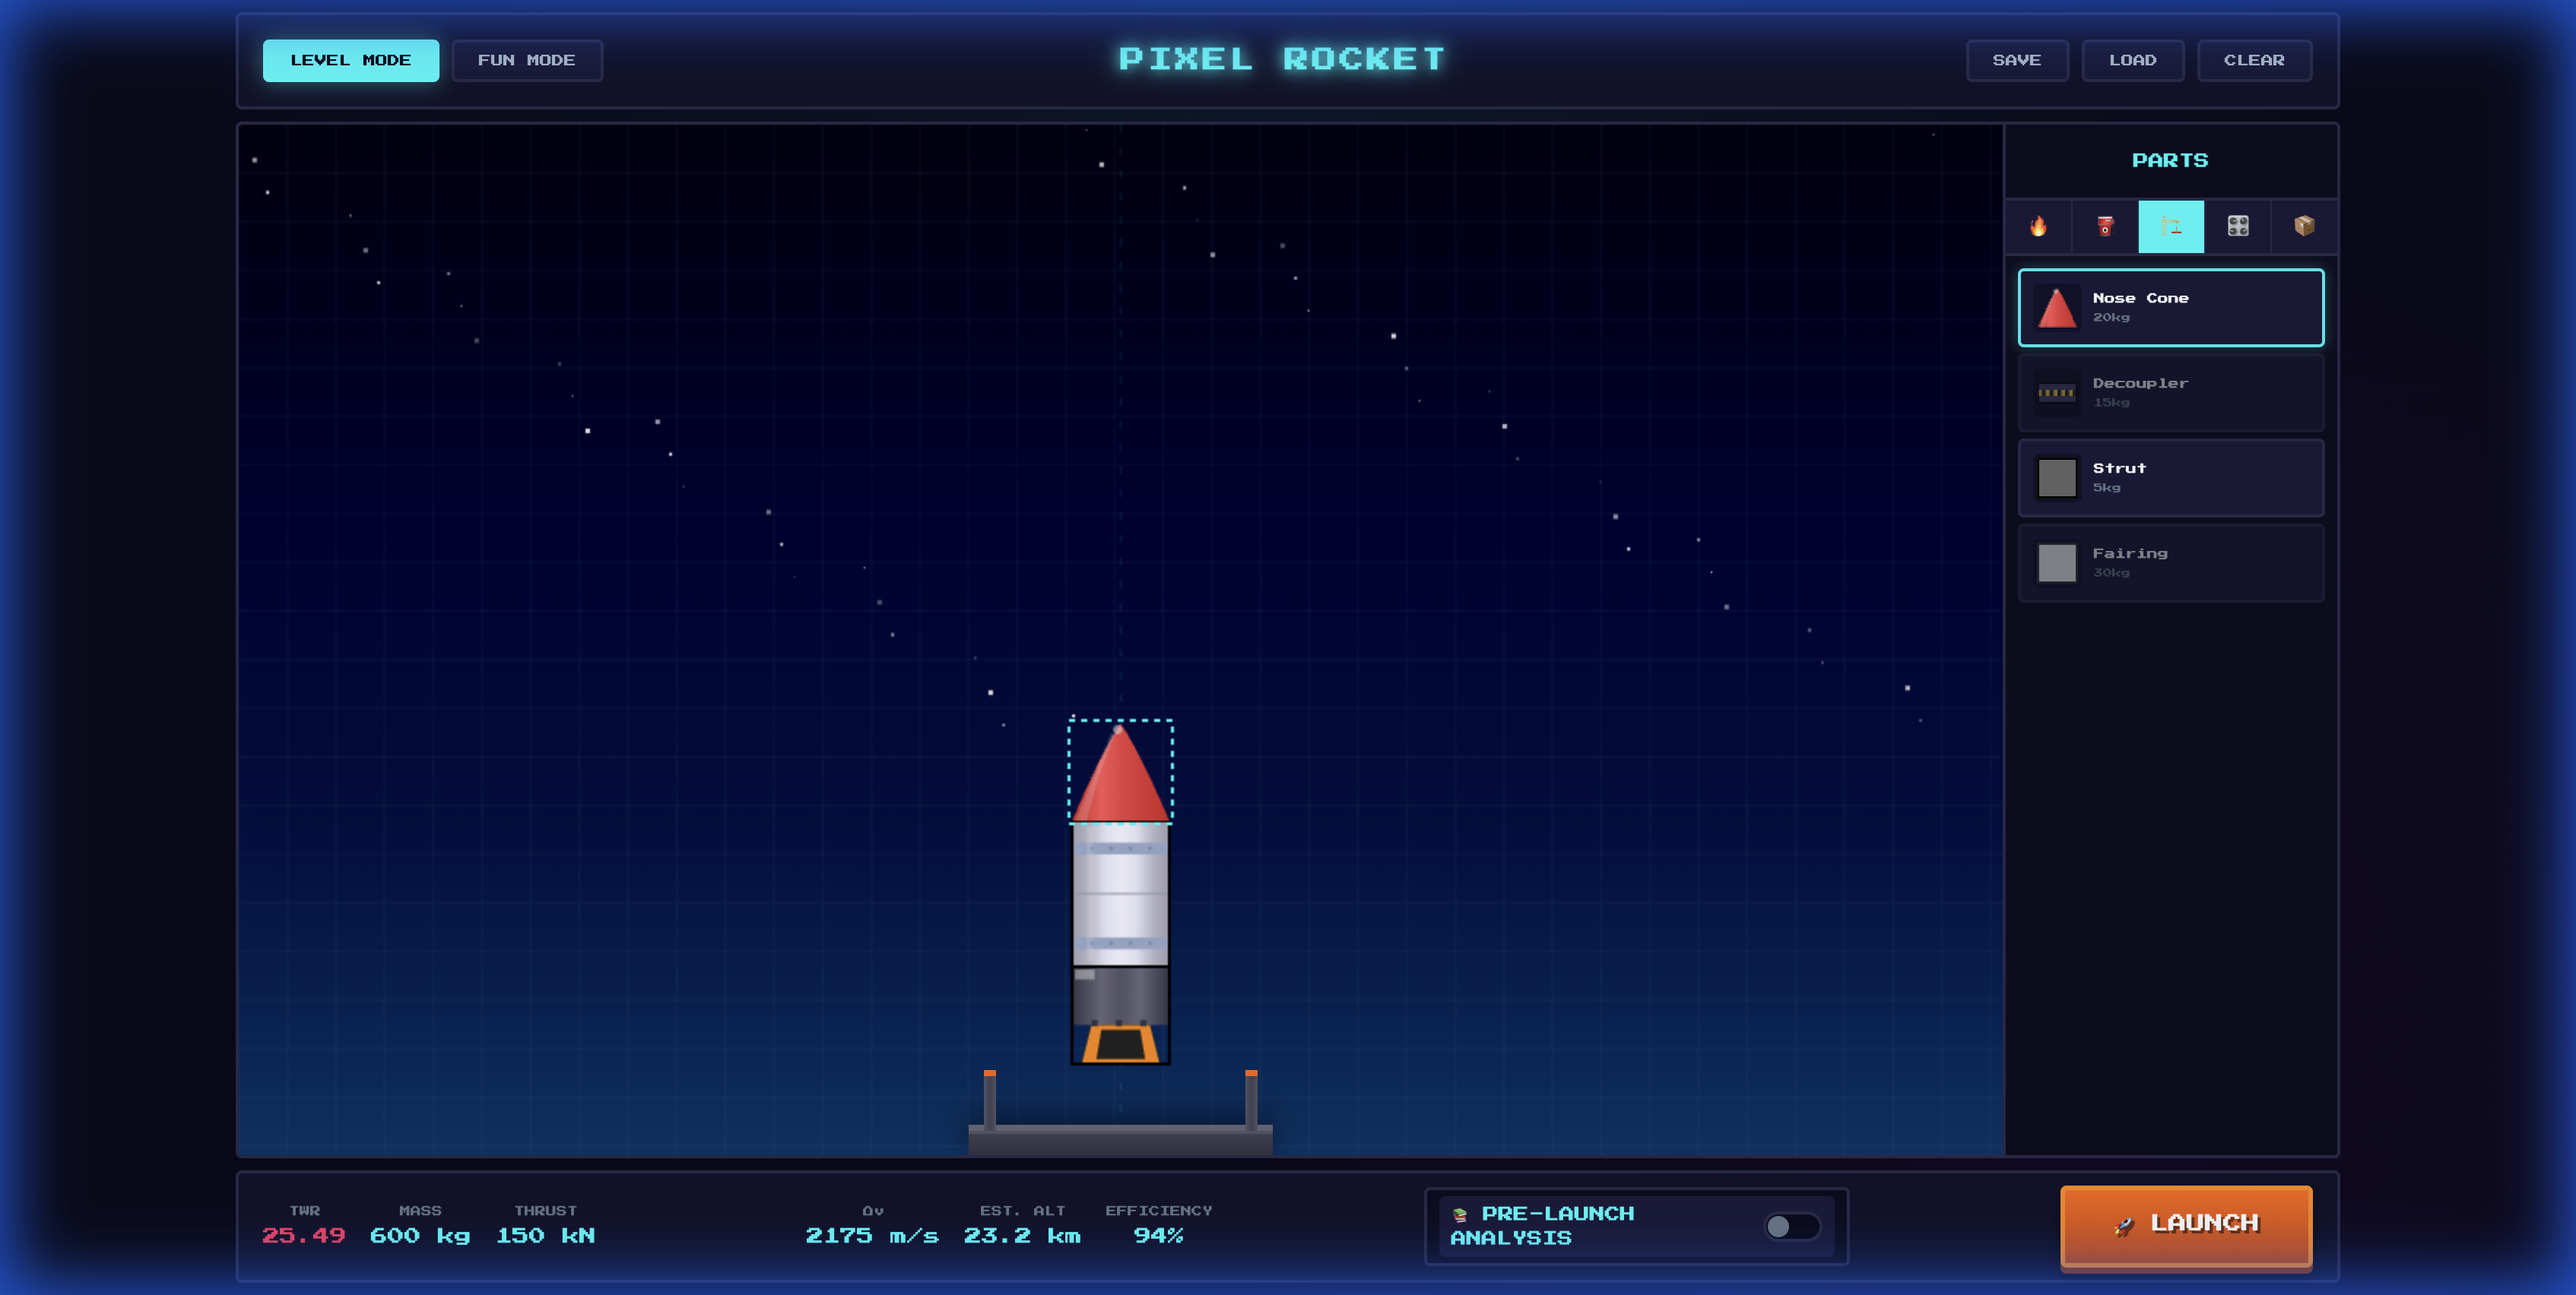
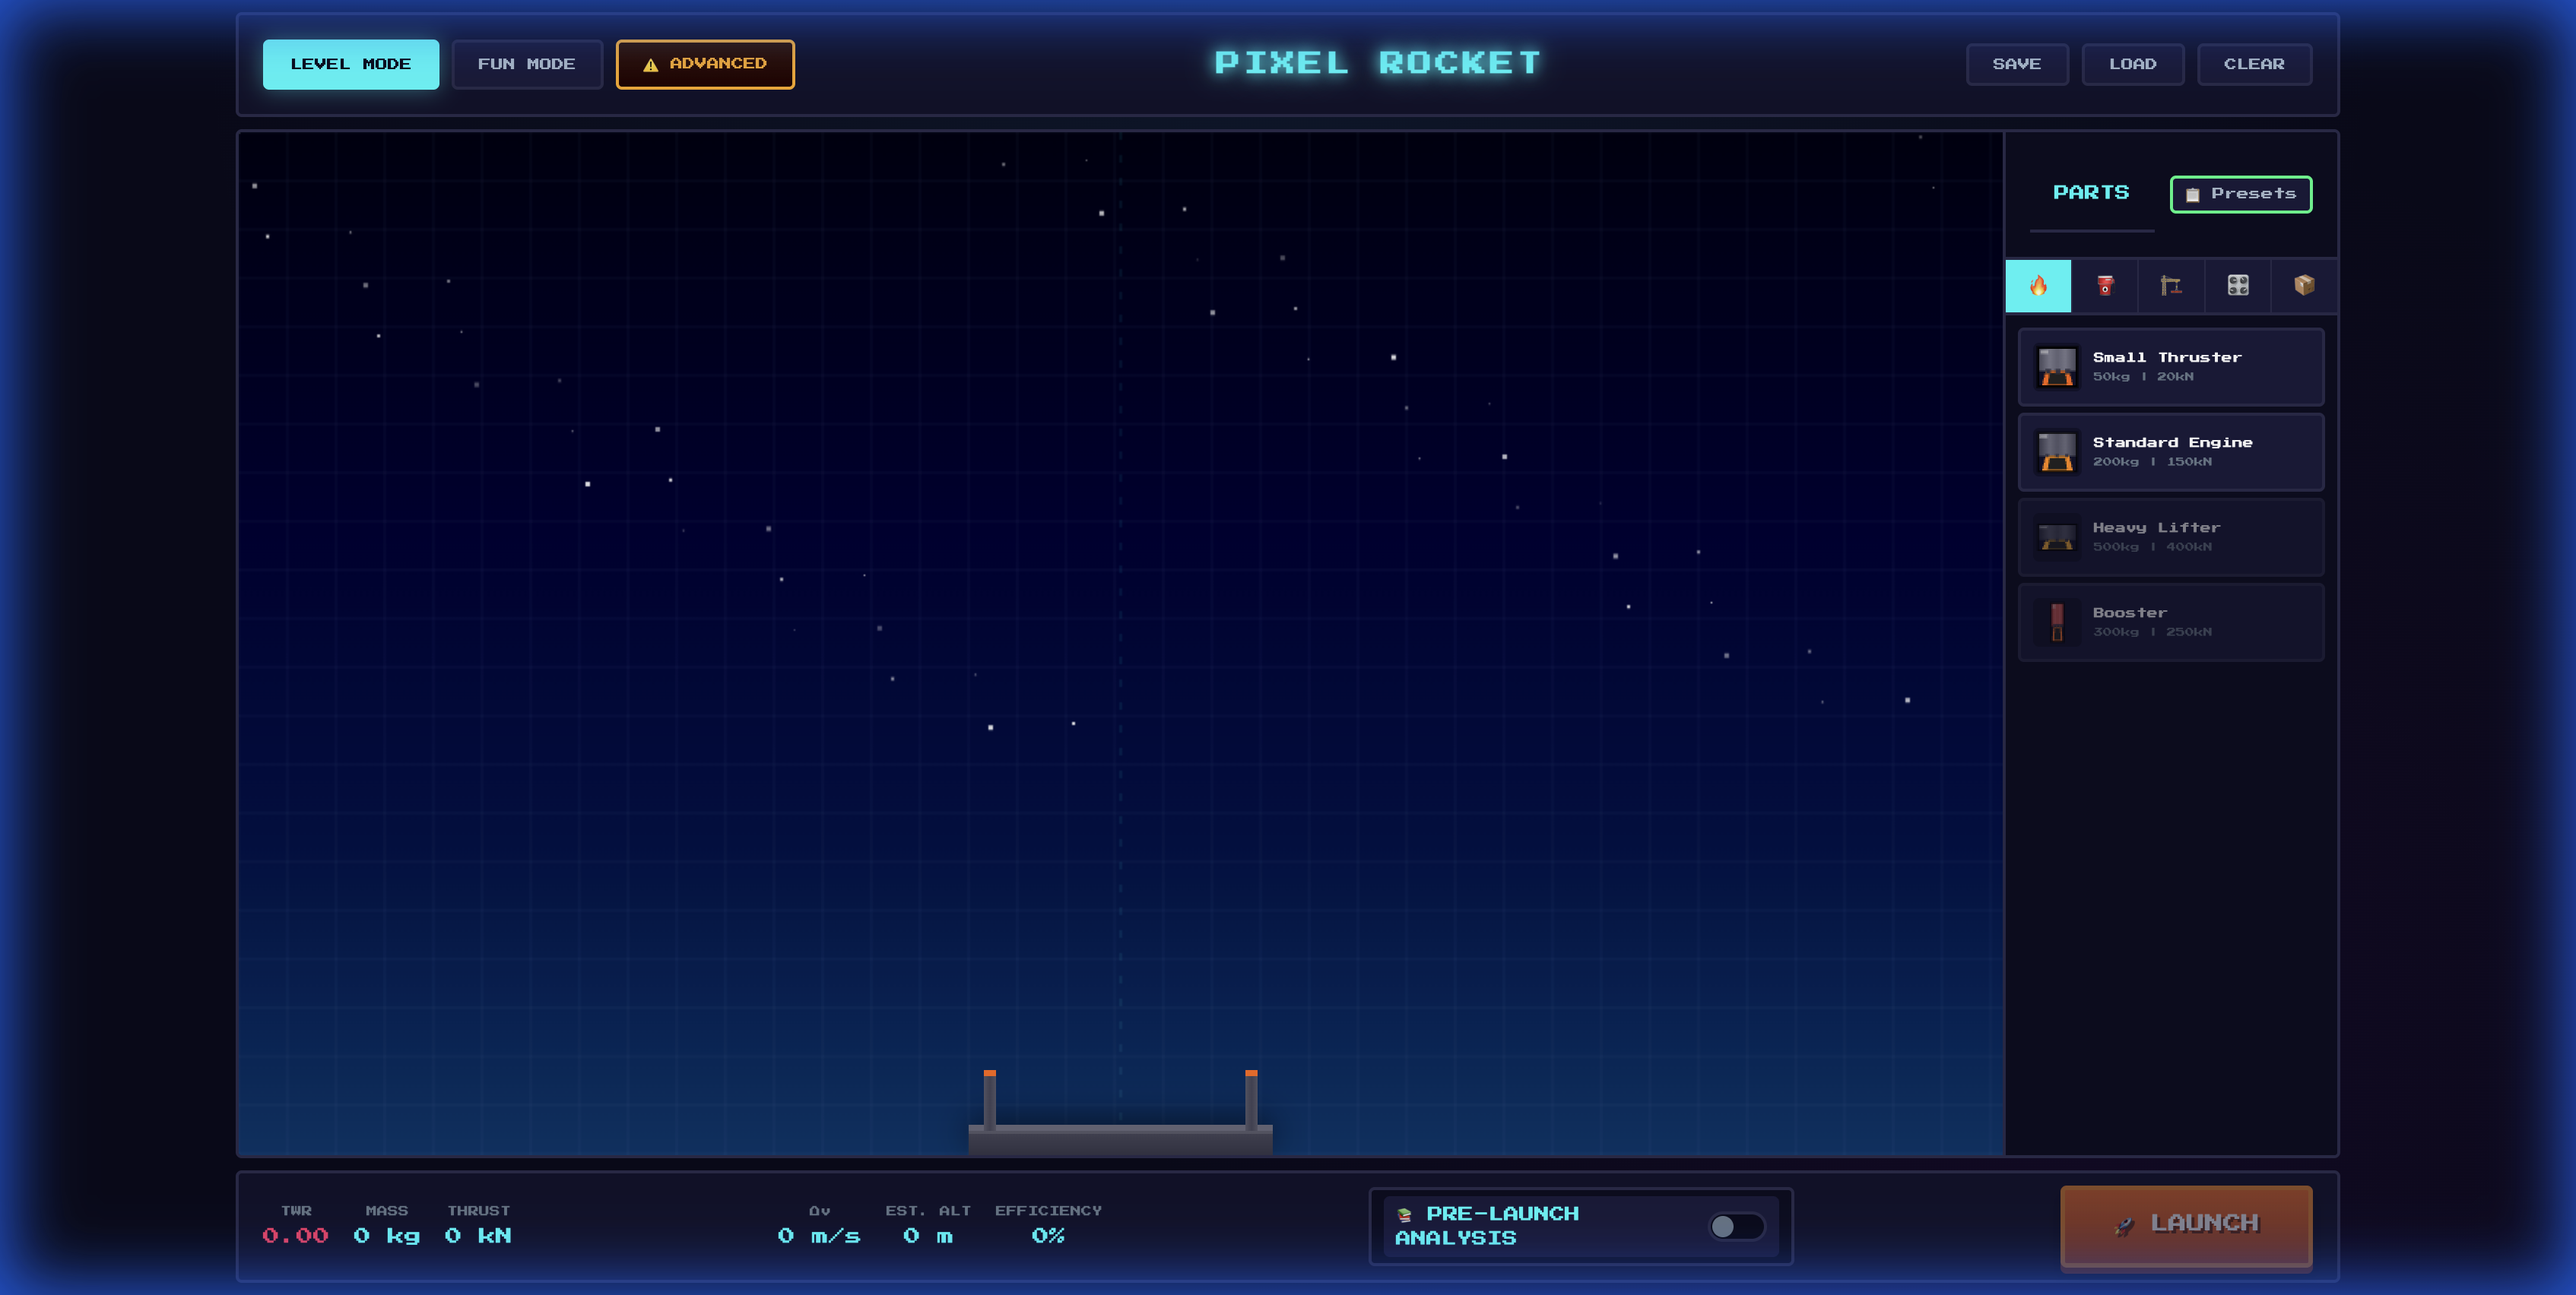
updated README

diff --git a/js/physics.js b/js/physics.js
@@ -526,9 +526,163 @@ function calculateEfficiency(parts) {
 /**
  * Detect stages based on decoupler placement
  */
+/**
+ * Detect stages based on decoupler placement (Bottom-Up)
+ * Analyzes connectivity graph to determine what drops when decouplers fire.
+ */
 function detectStages(parts) {
-    // Simple: treat all as one stage for now
-    return [parts];
+    if (!parts || parts.length === 0) return [];
+
+    // 1. Identify Root Part (Capsule or Probe)
+    // The part that controls the rocket and never drops (unless it crashes)
+    const rootPart = findRootPart(parts);
+    if (!rootPart) return [parts]; // Fallback if no root
+
+    // 2. Identify and Group Decouplers
+    const decouplers = parts.filter(p => {
+        const def = getPartById(p.partId);
+        return def && def.isDecoupler;
+    });
+
+    if (decouplers.length === 0) {
+        return [parts]; // Single stage
+    }
+
+    // Group decouplers by Y level (tolerance 5px) to fire together
+    const groups = {};
+    decouplers.forEach(d => {
+        // Round Y to nearest 10px to group
+        const yLevel = Math.round(d.y / 10) * 10;
+        if (!groups[yLevel]) groups[yLevel] = [];
+        groups[yLevel].push(d);
+    });
+
+    // Sort groups descending (Higher Y = Lower on screen = Bottom of rocket)
+    // We stage from bottom to top.
+    const sortedLevels = Object.keys(groups).sort((a, b) => parseFloat(b) - parseFloat(a));
+
+    const stages = [];
+
+    // 3. Simulate Staging Sequence
+    // Start with all parts currently attached
+    let currentParts = [...parts];
+
+    // Stage 0: The full rocket (Launch Configuration)
+    stages.push(currentParts);
+
+    // Apply each decoupler group
+    sortedLevels.forEach(level => {
+        const groupDecouplers = groups[level];
+        const groupIds = new Set(groupDecouplers.map(d => d.id));
+
+        // "Fire" these decouplers: They break connections but exist in the previous stage.
+        // In the NEXT stage, they (and anything below them) are gone.
+        // We simulate this by checking connectivity from ROOT, treating fired decouplers as "gaps".
+
+        // Note: The decouplers themselves are usually attached to the upper stage, 
+        // so they might stay or go depending on how they are attached. 
+        // In this simple model, we assume the decoupler stays with the *lower* stage (drops away)
+        // OR stays with upper. 
+        // Standard KSP/Sim: Decoupler stays on the part it was placed ON? 
+        // Let's assume decouplers are "separators" and we exclude them from the traversal 
+        // effectively breaking the link.
+
+        const nextStageParts = getConnectedParts(rootPart, currentParts, groupIds);
+
+        // Only if this changed something (i.e. parts were dropped), add a new stage
+        if (nextStageParts.length < currentParts.length) {
+            stages.push(nextStageParts);
+            currentParts = nextStageParts;
+        }
+    });
+
+    return stages;
+}
+
+/**
+ * Find the primary control part (Root)
+ */
+function findRootPart(parts) {
+    // Priority: Crew Capsule > Probe > Any Payload > Topmost Part
+    let root = parts.find(p => {
+        const def = getPartById(p.partId);
+        return def && def.id === 'crew_capsule';
+    });
+    if (root) return root;
+
+    root = parts.find(p => {
+        const def = getPartById(p.partId);
+        return def && def.category === 'payload';
+    });
+    if (root) return root;
+
+    // Fallback: Top-most part (lowest Y)
+    return parts.reduce((highest, p) => p.y < highest.y ? p : highest, parts[0]);
+}
+
+/**
+ * Get all parts connected to root, utilizing BFS
+ * @param {object} root - Starting part
+ * @param {array} allParts - Universe of valid parts
+ * @param {Set} ignoredPartIds - Parts to treat as non-existent (fired decouplers)
+ */
+function getConnectedParts(root, allParts, ignoredPartIds = new Set()) {
+    const connected = new Set();
+    const queue = [root];
+    connected.add(root.id);
+
+    // Build adjacency map for performance
+    // Only map parts present in allParts
+    const validIds = new Set(allParts.map(p => p.id));
+
+    while (queue.length > 0) {
+        const current = queue.shift();
+        const currentDef = getPartById(current.partId);
+
+        // Check against all other parts
+        for (const other of allParts) {
+            if (connected.has(other.id)) continue;
+            if (ignoredPartIds.has(other.id)) continue; // Treat fired decoupler as void
+            if (!validIds.has(other.id)) continue;
+
+            if (arePartsConnected(current, currentDef, other)) {
+                connected.add(other.id);
+                queue.push(other);
+            }
+        }
+    }
+
+    return allParts.filter(p => connected.has(p.id));
+}
+
+/**
+ * Check if two parts are physically connected
+ */
+function arePartsConnected(partA, defA, partB) {
+    const defB = getPartById(partB.partId);
+    if (!defA || !defB) return false;
+
+    // Bounding boxes with slight tolerance for "touching"
+    const BUFFER = 5; // Look for adjacency or overlap
+
+    const aLeft = partA.x;
+    const aRight = partA.x + defA.width * TILE_SIZE;
+    const aTop = partA.y;
+    const aBottom = partA.y + defA.height * TILE_SIZE;
+
+    const bLeft = partB.x;
+    const bRight = partB.x + defB.width * TILE_SIZE;
+    const bTop = partB.y;
+    const bBottom = partB.y + defB.height * TILE_SIZE;
+
+    // Axis-Aligned Bounding Box intersection/touch check
+    // We expand A by BUFFER to see if it touches B
+    return !(
+        aRight + BUFFER < bLeft ||
+        aLeft - BUFFER > bRight ||
+        aBottom + BUFFER < bTop ||
+        aTop - BUFFER > bBottom
+    );
 }
 
 // ============================================

diff --git a/README.md b/README.md
@@ -24,6 +24,7 @@
 | Feature | Description |
 |---------|-------------|
 | 🔧 **Drag & Drop Builder** | Intuitive rocket construction with snap-to-grid |
+| 🚀 **Rocket Presets** | Quick-start templates for immediate launching |
 | 🎮 **Three Game Modes** | Level progression, sandbox, or realistic simulation |
 | 📊 **Real Physics Engine** | ISA atmosphere, Mach regimes, aerodynamic heating |
 | 🎓 **Educational Analysis** | Pre-launch warnings and post-flight explanations |
@@ -109,6 +110,16 @@ For players who want **realistic orbital mechanics** and **simulation-level phys
 | **Clear All** | Click `CLEAR` button |
 | **Save Design** | Click `SAVE` button |
 | **Load Design** | Click `LOAD` button |
+
+
+
+### 🚀 Quick Load Presets
+![Presets Menu](assets/screenshots/presets.png)
+
+Don't want to build from scratch? Click **PRESETS** to choose a pre-designed rocket:
+- **Small Rocket** - Simple, sub-orbital hopper
+- **Medium Rocket** - robust multi-stage vehicle
+- **Heavy Lifter** - Massive rocket for deep space
 
 ---
 
@@ -366,7 +377,12 @@ SpaceSim/
 │   ├── editor.js       # Rocket builder interface
 │   ├── physics.js      # Full physics simulation
 │   ├── parts.js        # All part definitions & rendering
-│   └── audio.js        # Sound effects system
+│   ├── presets.js      # Rocket preset templates
+│   ├── advanced.js     # Advanced orbital physics & failures
+│   ├── planets.js      # Planetary system definitions
+│   ├── validation.js   # Pre-launch checks
+│   ├── audio.js        # Sound effects system
+│   └── tooltips.js     # UI helpers
 └── assets/
     └── screenshots/    # Documentation images
 ```
@@ -415,10 +431,13 @@ This game teaches through **experiential learning**:
 
 <p align="center">
   <img src="assets/screenshots/editor.png" alt="Rocket Editor" width="400">
-  <img src="assets/screenshots/prelaunch.png" alt="Pre-Launch Analysis" width="400">
+  <img src="assets/screenshots/presets.png" alt="Presets Menu" width="400">
 </p>
 <p align="center">
+  <img src="assets/screenshots/prelaunch.png" alt="Pre-Launch Analysis" width="400">
   <img src="assets/screenshots/flight.png" alt="Flight Simulation" width="400">
+</p>
+<p align="center">
   <img src="assets/screenshots/results.png" alt="Results Screen" width="400">
 </p>
 
